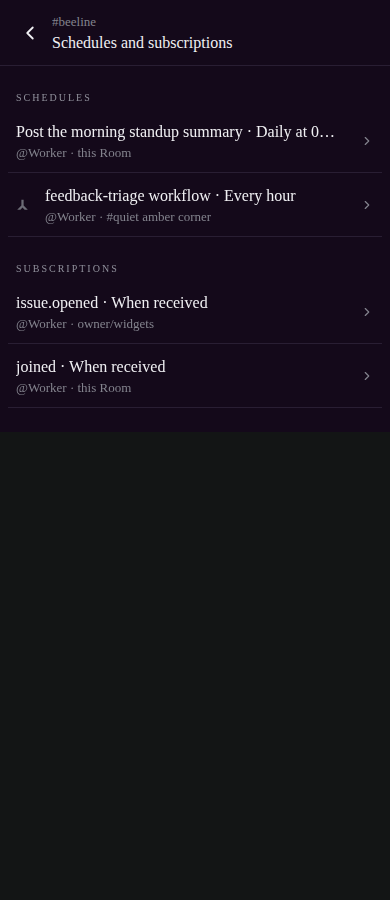
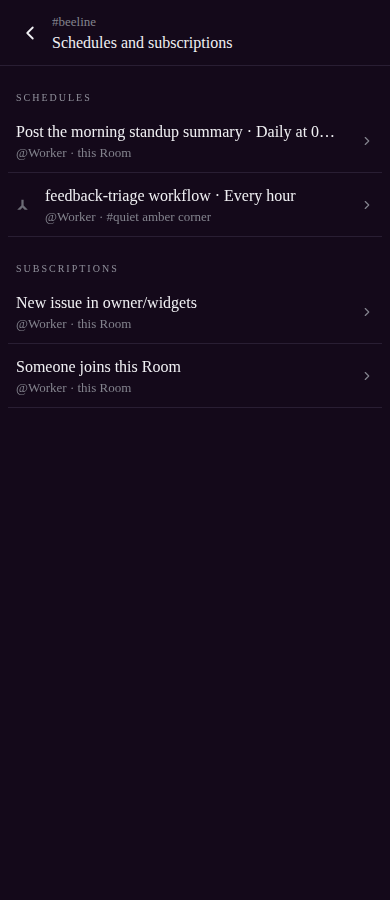
Use plain event names and full-height subscription frames

Changed region(s): [[0.0308, 0.3111, 0.5231, 0.3733], [0.0308, 0.4044, 0.4615, 0.4356]]

diff --git a/apps/mobile/sources/buzz/scheduled-work.ts b/apps/mobile/sources/buzz/scheduled-work.ts
@@ -50,11 +50,30 @@ export function scheduleRuns(schedule: RoomScheduleView): string {
 }
 
 export function subscriptionTitle(subscription: RoomSubscriptionView): string {
-  return `${subscription.event} · When received`;
-}
-
-export function subscriptionSource(subscription: RoomSubscriptionView): string {
-  return subscription.source === 'repository' ? subscription.repository ?? 'Repository' : 'Room activity';
+  if (subscription.source === 'repository') {
+    const repository = subscription.repository ?? 'this repository';
+    const action: Record<string, string> = {
+      'issue.opened': `New issue in ${repository}`,
+      'issue.closed': `Issue closes in ${repository}`,
+      'issue.reopened': `Issue reopens in ${repository}`,
+      'pull_request.opened': `New pull request in ${repository}`,
+      'pull_request.closed': `Pull request closes in ${repository}`,
+      'pull_request.reopened': `Pull request reopens in ${repository}`,
+      'star.created': `Someone stars ${repository}`,
+      'star.deleted': `Someone removes a star from ${repository}`,
+    };
+    return action[subscription.event] ?? `An event arrives in ${repository}`;
+  }
+  const action: Record<string, string> = {
+    joined: 'Someone joins this Room',
+    'schedule-ran': 'A schedule runs in this Room',
+    'corner-opened': 'A corner opens in this Room',
+    'check-passed': 'Corner checks pass',
+    'check-failed': 'Corner checks fail',
+    merged: 'A corner merges',
+    'workflow-handoff': 'A workflow moves to its next step',
+  };
+  return action[subscription.event] ?? 'An event arrives in this Room';
 }
 
 export function subscriptionWhere(subscription: RoomSubscriptionView): string {
@@ -63,8 +82,8 @@ export function subscriptionWhere(subscription: RoomSubscriptionView): string {
 
 export function subscriptionRuns(subscription: RoomSubscriptionView): string {
   return subscription.lastFiredAt
-    ? `When received · last ${NEXT_RUN.format(new Date(subscription.lastFiredAt * 1_000))}`
-    : 'When received · waiting for first event';
+    ? `Last event ${NEXT_RUN.format(new Date(subscription.lastFiredAt * 1_000))}`
+    : 'Waiting for first event';
 }
 
 export type ScheduledWork = {

diff --git a/apps/mobile/sources/app/(app)/beeline/settings/schedules.test.tsx b/apps/mobile/sources/app/(app)/beeline/settings/schedules.test.tsx
@@ -61,7 +61,7 @@ it('lists every entry as one row in the shared grammar, each opening its own pag
     expect(row('scheduled-work-video').props).toMatchObject({ title: 'post_youtube_video workflow · Every day', description: '@Hoots · #video' });
     expect(row('scheduled-work-video').props.leading).toBeTruthy();
     expect(row('scheduled-work-daily').props.leading).toBeUndefined();
-    expect(row('subscription-sub').props).toMatchObject({ title: 'issue.opened · When received', description: '@Hoots · owner/widgets' });
+    expect(row('subscription-sub').props).toMatchObject({ title: 'New issue in owner/widgets', description: '@Hoots · this Room' });
     act(() => row('scheduled-work-daily').props.onPress());
     act(() => row('scheduled-work-video').props.onPress());
     act(() => row('subscription-sub').props.onPress());
@@ -93,7 +93,7 @@ it('stops a subscription from its page only after the same confirm step', async 
   params.value = { roomId: 'room', subscriptionId: 'sub' };
   const tree = await render(<Subscription />);
   try {
-    expect(tree.root.findByProps({ testID: 'subscription-trigger' }).props.children).toBe('issue.opened from owner/widgets.');
+    expect(tree.root.findByProps({ testID: 'subscription-trigger' }).props.children).toBe('New issue in owner/widgets.');
     await act(async () => press(tree, 'stop-subscription'));
     expect(operation.mock.calls.filter(([name]) => name === 'deleteRoomSubscription')).toHaveLength(0);
     await act(async () => press(tree, 'stop-subscription-confirm'));

diff --git a/apps/mobile/sources/app/(app)/beeline/settings/schedules.browser.test.ts b/apps/mobile/sources/app/(app)/beeline/settings/schedules.browser.test.ts
@@ -122,8 +122,8 @@ describe.skipIf(!existsSync(CHROME))('Schedules and subscriptions pages in a bro
       'feedback-triage workflow · Daily at 14:00 America/New_York',
       '@Ruby · #issues-triage',
       'SUBSCRIPTIONS',
-      'pull_request.opened · When received',
-      '@Ruby · owner/widgets',
+      'New pull request in owner/widgets',
+      '@Ruby · this Room',
     ]);
     // Only the workflow schedule wears a glyph.
     expect(page.glyphs).toEqual(['scheduled-work-glyph-video']);
@@ -164,14 +164,14 @@ describe.skipIf(!existsSync(CHROME))('Schedules and subscriptions pages in a bro
     const page = await proof('?page=subscription&roomId=room-1&subscriptionId=sub-1');
     expect(page.text.slice(0, 2)).toEqual(['Schedules and subscriptions', 'Subscription']);
     expect(page.text.slice(2)).toEqual([
-      'Runs',
-      expect.stringMatching(/^When received · last /),
+      'Activity',
+      expect.stringMatching(/^Last event /),
       'Agent',
       '@Ruby',
       'Where',
       'this Room',
       'Trigger',
-      'pull_request.opened from owner/widgets.',
+      'New pull request in owner/widgets.',
       'Event',
       'When this event arrives, the agent wakes with its details.',
       'Stop subscription',

diff --git a/apps/mobile/sources/app/(app)/beeline/settings/subscription.tsx b/apps/mobile/sources/app/(app)/beeline/settings/subscription.tsx
@@ -7,7 +7,7 @@ import { StyleSheet } from 'react-native-unistyles';
 import {
   stopSubscription,
   subscriptionRuns,
-  subscriptionSource,
+  subscriptionTitle,
   subscriptionWhere,
   useScheduledWork,
 } from '@/buzz/scheduled-work';
@@ -65,11 +65,12 @@ export default function Subscription() {
           <ScheduledWorkFacts
             agents={[work?.agentNames.get(subscription.agentId) ?? 'Agent']}
             runs={subscriptionRuns(subscription)}
+            runsLabel="Activity"
             where={subscriptionWhere(subscription)}
           />
           <DetailSection testID="subscription-trigger-header" title="Trigger" />
           <DetailCopy testID="subscription-trigger">
-            {`${subscription.event} from ${subscriptionSource(subscription)}.`}
+            {`${subscriptionTitle(subscription)}.`}
           </DetailCopy>
           <DetailSection testID="subscription-payload-header" title="Event" />
           <DetailCopy testID="subscription-payload">

diff --git a/apps/mobile/sources/components/buzz/ScheduledWorkDetail.tsx b/apps/mobile/sources/components/buzz/ScheduledWorkDetail.tsx
@@ -41,18 +41,20 @@ export function DetailCopy({ children, testID }: { children: React.ReactNode; te
 /** Runs, Agent or Agents, and Where: the same three rows on every detail page. */
 export function ScheduledWorkFacts({
   runs,
+  runsLabel = 'Runs',
   agents,
   where,
   testID = 'scheduled-work-facts',
 }: {
   runs: string;
+  runsLabel?: string;
   agents: readonly string[];
   where: string;
   testID?: string;
 }) {
   return (
     <View style={styles.facts} testID={testID}>
-      <SettingsRow description={runs} testID={`${testID}-runs`} title="Runs" />
+      <SettingsRow description={runs} testID={`${testID}-runs`} title={runsLabel} />
       <SettingsRow
         description={agents.length ? agents.map((name) => `@${name}`).join(', ') : 'None'}
         testID={`${testID}-agents`}

diff --git a/apps/mobile/sources/app/(app)/beeline/settings/schedules.tsx b/apps/mobile/sources/app/(app)/beeline/settings/schedules.tsx
@@ -10,7 +10,6 @@ import { displayRoomIndexTitle } from '@/buzz/room-list-row';
 import {
   scheduleTitle,
   scheduleWhere,
-  subscriptionSource,
   subscriptionTitle,
   subscriptionWhere,
   useScheduledWork,
@@ -85,7 +84,7 @@ export default function ScheduledWork() {
   const renderSubscription = (subscription: RoomSubscriptionView) => (
     <SettingsRow
       chevron="right"
-      description={`@${work?.agentNames.get(subscription.agentId) ?? 'Agent'} · ${subscription.source === 'repository' ? subscriptionSource(subscription) : subscriptionWhere(subscription)}`}
+      description={`@${work?.agentNames.get(subscription.agentId) ?? 'Agent'} · ${subscriptionWhere(subscription)}`}
       key={subscription.id}
       onPress={() =>
         router.push({

diff --git a/apps/mobile/scripts/build-subscriptions-frame.ts b/apps/mobile/scripts/build-subscriptions-frame.ts
@@ -59,6 +59,6 @@ void build({
   } }],
 }).then(() => {
   writeFileSync(path.join(output, 'frame.html'),
-    '<!doctype html><meta name="viewport" content="width=device-width,initial-scale=1"><style>html,body{margin:0;background:#131515}</style><div id="root"></div><script src="frame.js"></script>');
+    '<!doctype html><meta name="viewport" content="width=device-width,initial-scale=1"><style>html,body{margin:0;height:100%}#root{display:flex;flex-direction:column;min-height:100%}</style><div id="root"></div><script src="frame.js"></script>');
   console.log(path.join(output, 'frame.html'));
 });
